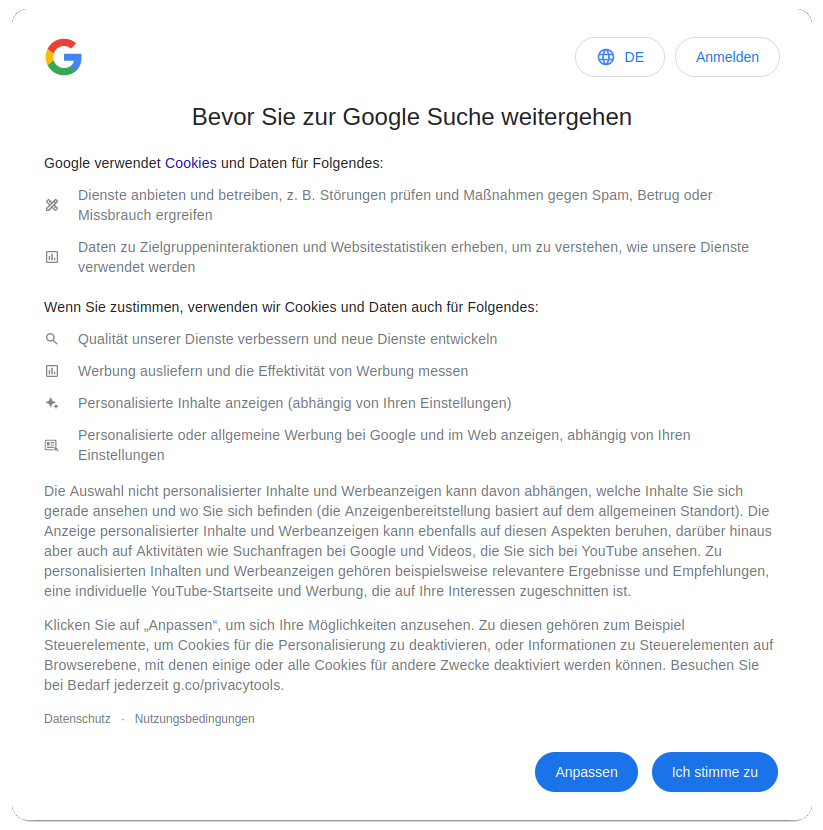
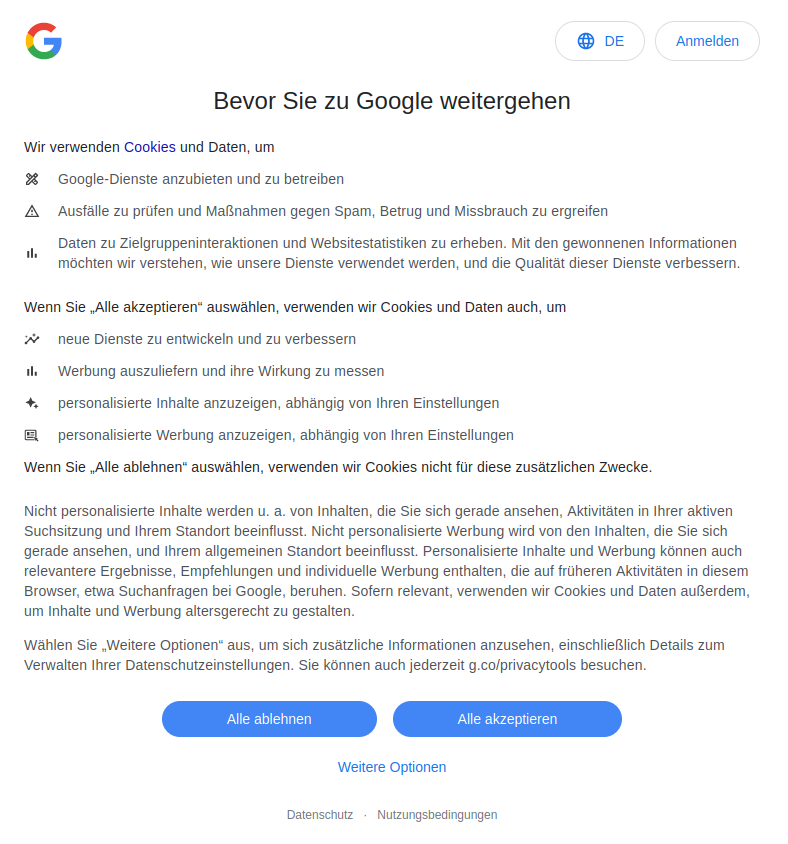
adjusted google popup to include changes made to original google popup

diff --git a/src/app/pages/google/modal/pop-up/pop-up.component.ts b/src/app/pages/google/modal/pop-up/pop-up.component.ts
@@ -16,12 +16,22 @@ export class PopUpComponent implements OnInit {
 
   ngOnInit() {}
 
-  //TODO find out how many cookies and set accoridingly!
   acceptAll(){
+    this.accept(6);
+  }
+
+  /**
+   * functional cookies only
+   */
+  reject(){
+    this.accept(3);
+  }
+
+  accept(noOfAcceptedCookies){
     const cookies: ICookieScore = {
       website: 'google.de',
       noOfCookies: 6,
-      acceptedCookies: 6
+      acceptedCookies: noOfAcceptedCookies
     };
     this.scoreCardService.setCookies(cookies);
     this.modalCtrl.dismiss();
@@ -33,16 +43,7 @@ export class PopUpComponent implements OnInit {
     const modal = await this.modalCtrl.create({
       component: AdjustSettingsComponent,
       backdropDismiss: false,
-      componentProps: {
-        name: 'cluster is XXX'
-      },
       cssClass: 'fullsize-adjust'
-    });
-
-    modal.onDidDismiss().then(async (data: any) => {
-      if (data.data) {
-        console.log('data is: ' + data.data);
-      }
     });
     return await modal.present();
   }

diff --git a/src/app/pages/google/modal/pop-up/pop-up.component.scss b/src/app/pages/google/modal/pop-up/pop-up.component.scss
@@ -7,13 +7,32 @@
 .google-button {
   --border-radius: 40px;
   --box-shadow: none;
-  --padding-top: 20px;
-  --padding-bottom: 20px;
+  --padding-top: 18px;
+  --padding-bottom: 18px;
   --padding-left: 30px;
-  --background: #1a73e8;
+  --background: #4285F4;
+  text-transform: none;
+}
+
+.reject{
+  position: relative;
+  left: 205px;
+  top: 700px;
+}
+
+.accept{
+  position: relative;
+  left: 305px;
+  top: 700px;
+}
+
+.option-button {
+  --box-shadow: none;
   text-transform: none;
   position: relative;
-  left: 522px;
-  top: 733px;
+  left: 30px;
+  top: 750px;
+  color: #4285F4;
+  --background: white;
 
 }

diff --git a/src/app/pages/google/modal/pop-up/pop-up.component.html b/src/app/pages/google/modal/pop-up/pop-up.component.html
@@ -1,4 +1,5 @@
 <div class="wrapper">
-  <ion-button class="google-button" (click)="adjustSettings()">Anpassen</ion-button>
-<ion-button class="google-button" (click)="acceptAll()">Ich stimme zu</ion-button>
+  <ion-button class="google-button reject" (click)="reject()">Alle ablehnen</ion-button>
+<ion-button class="google-button accept" (click)="acceptAll()">Alle akzeptieren</ion-button>
+  <ion-button class="option-button" (click)="adjustSettings()">Weitere Optionen</ion-button>
 </div>

diff --git a/src/app/services/score-card/score-card.service.ts b/src/app/services/score-card/score-card.service.ts
@@ -8,7 +8,7 @@ export class ScoreCardService {
   private result: IOplisResult;
   private cookies: ICookieScore[] = new Array();
   private cluster = Cluster.med; //Cluster; TODO remove hard coding
-  private group = ParticipantGroup.personalisedpa; //ParticipantGroup; //TODO remove hard coding
+  private group = ParticipantGroup.controlGroup; //ParticipantGroup; //TODO remove hard coding
 
   constructor() { }
 

diff --git a/src/global.scss b/src/global.scss
@@ -93,7 +93,7 @@ ion-header {
 // GOOGLE PAGE
 .google-modal{
   --width: 800px;
-  --height: 800px;
+  --height: 850px;
   --border-radius: 1em;
 }
 
